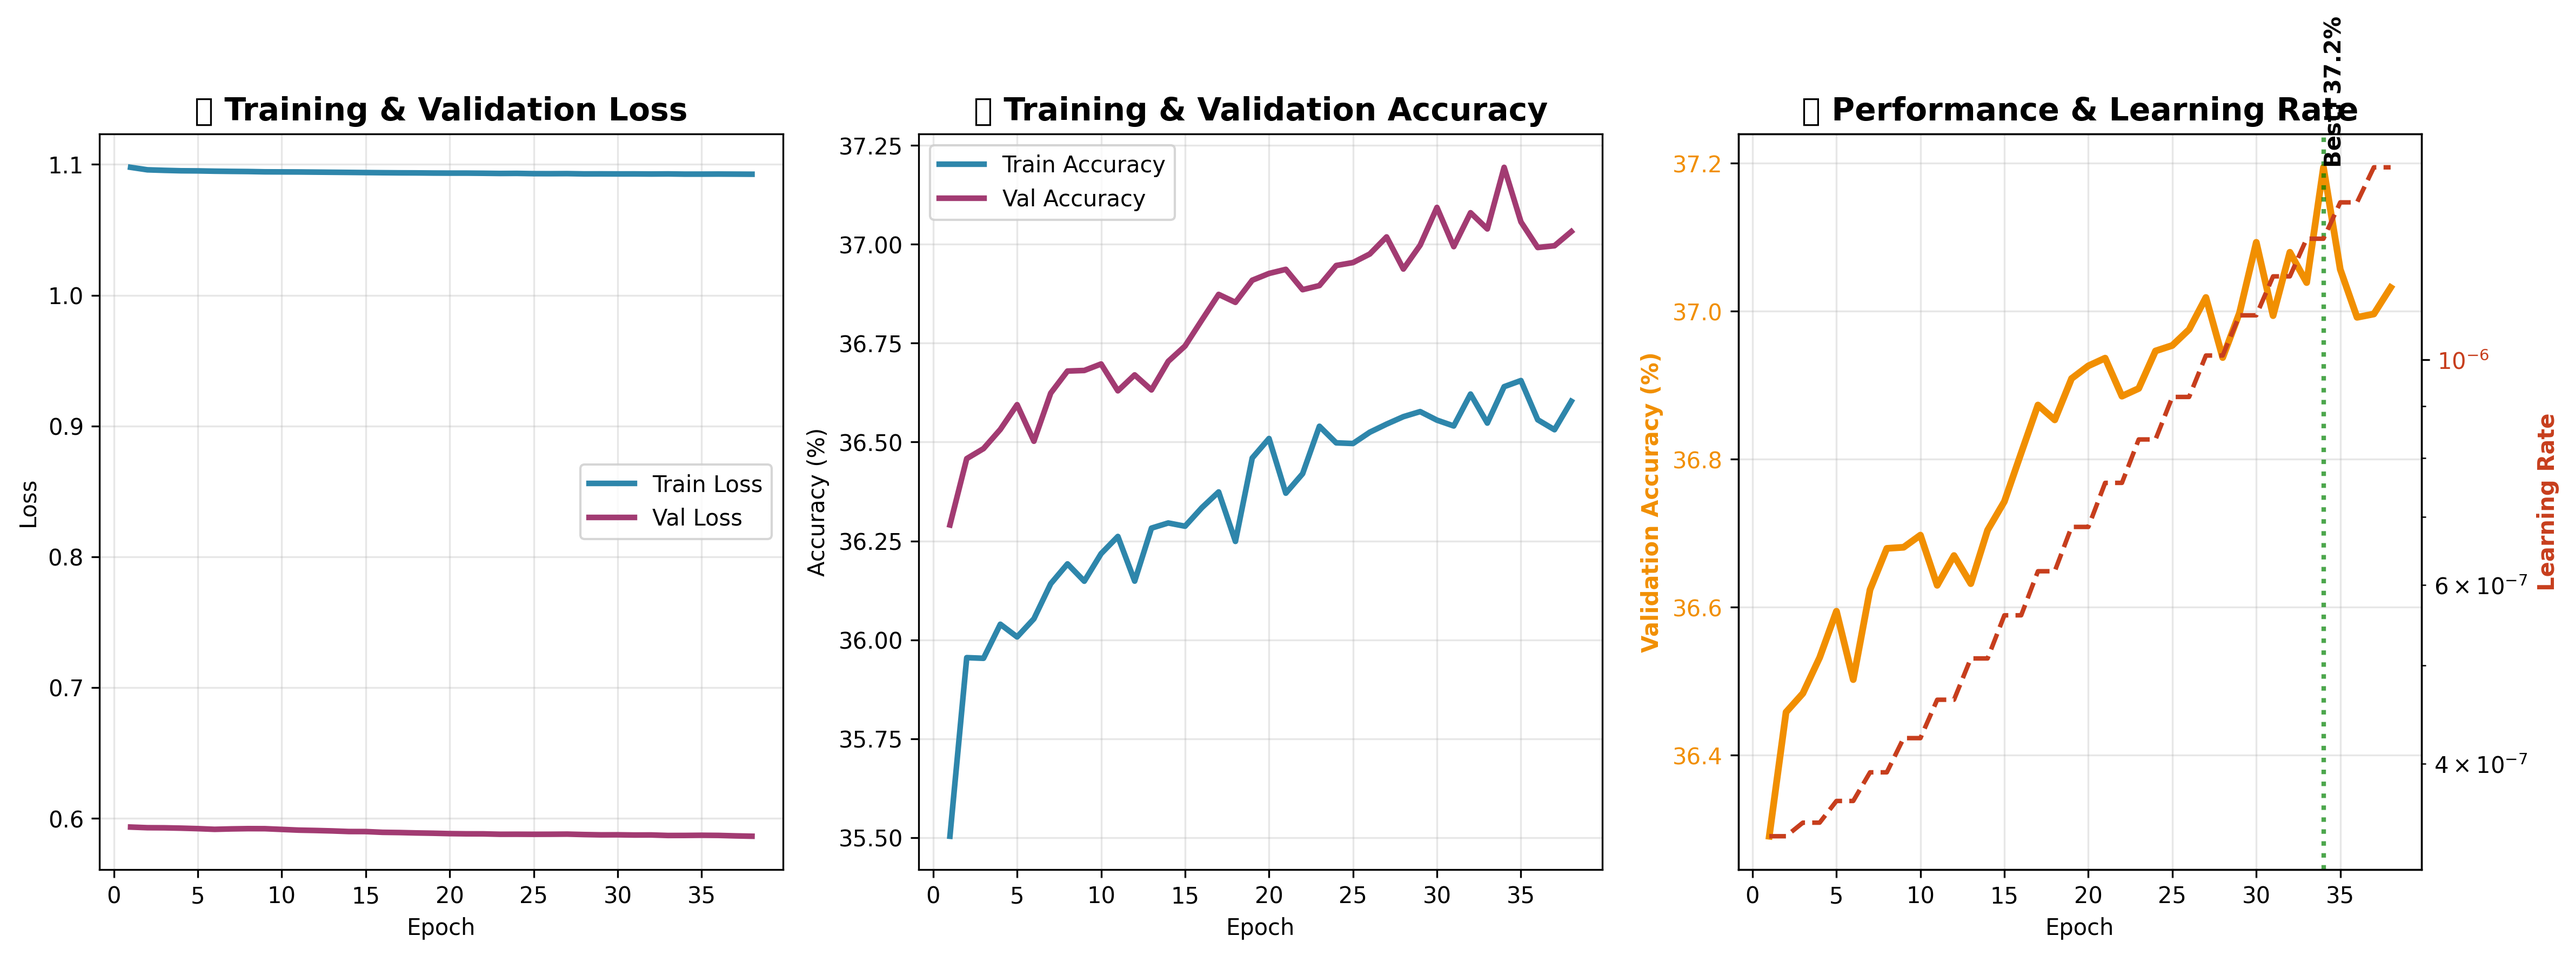
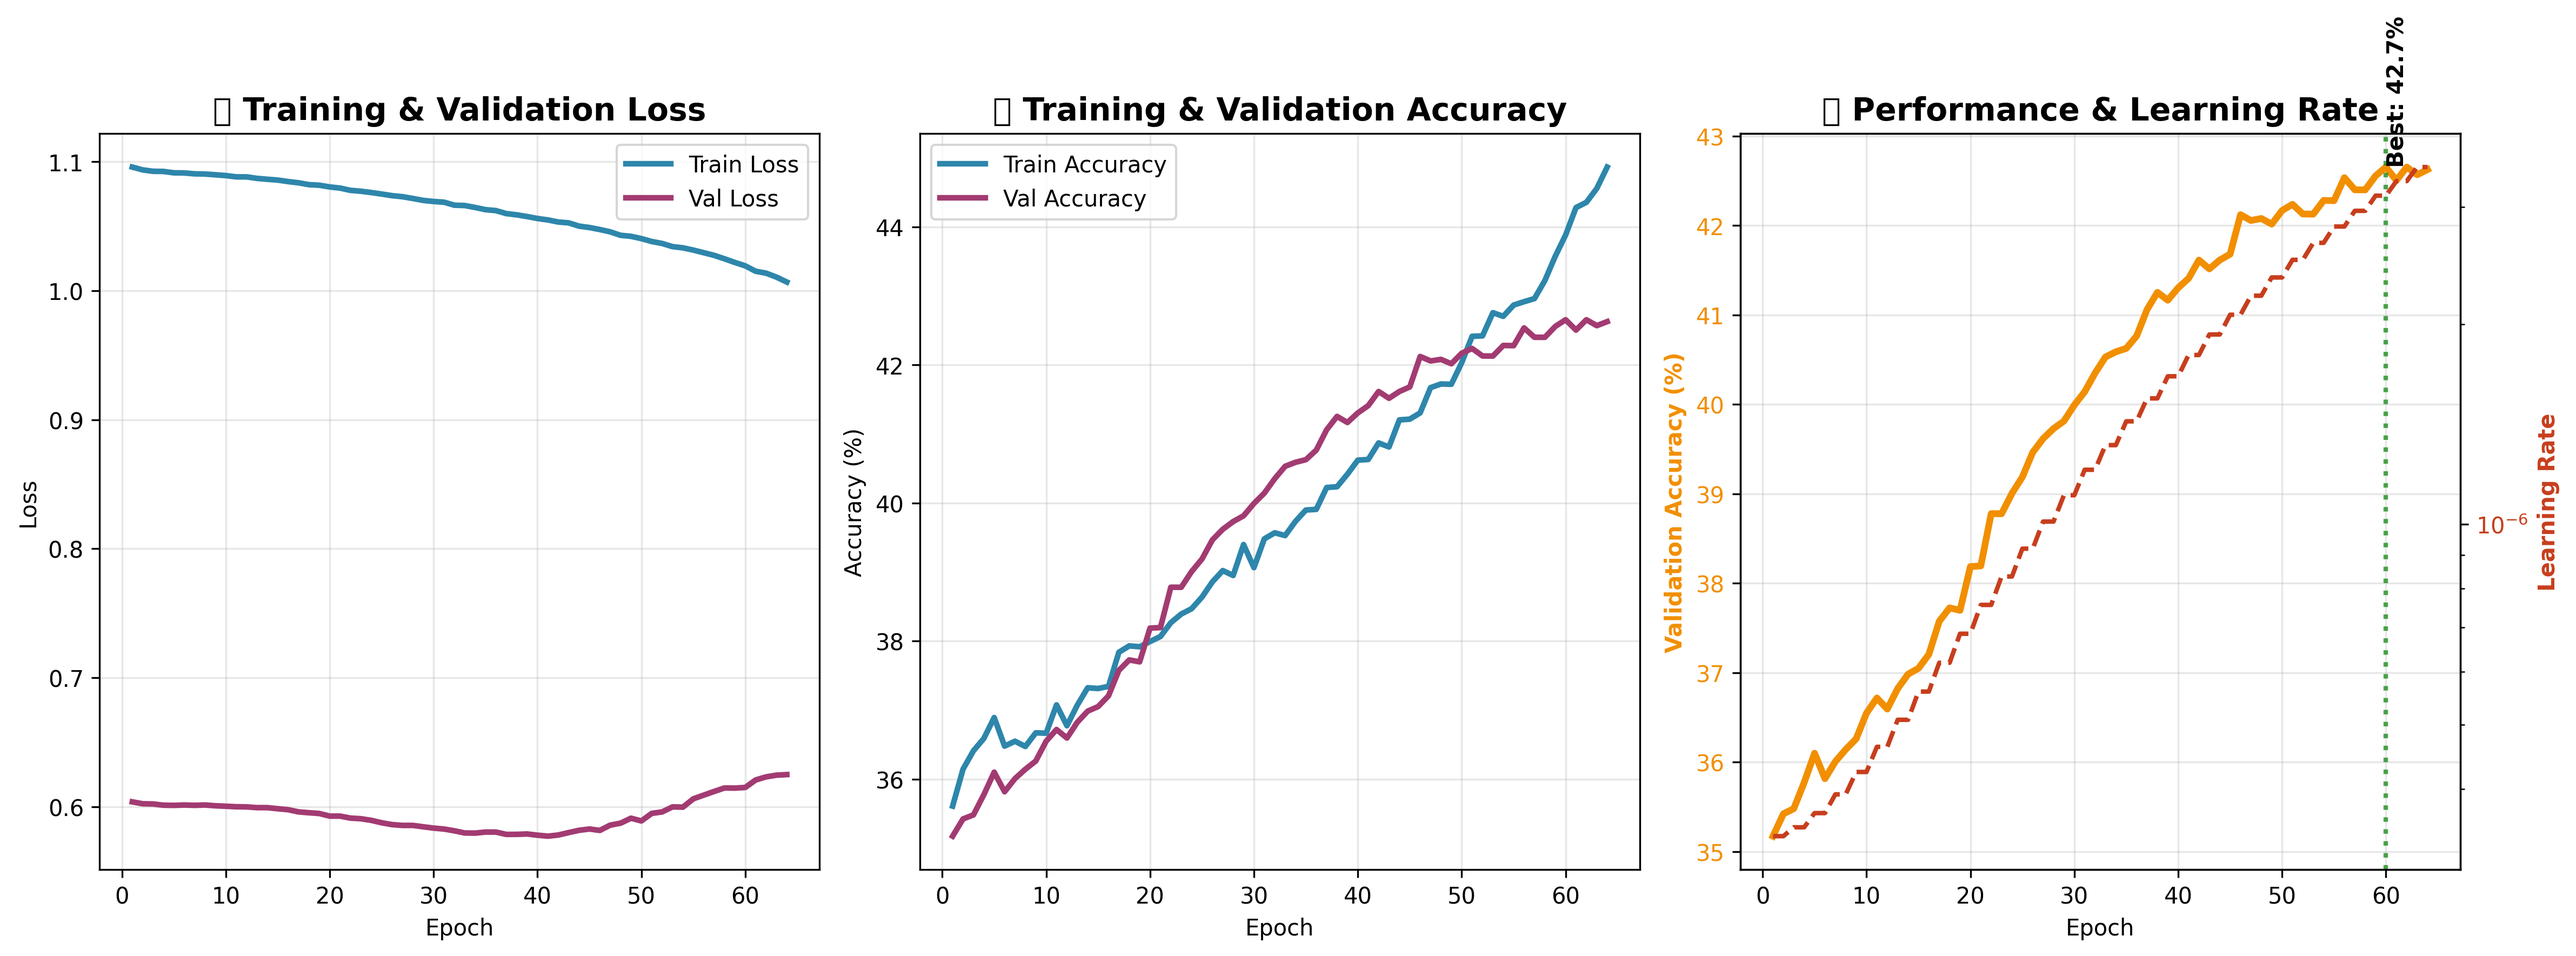
Added Macro F1 score and other metrics to training loop and training curves png

diff --git a/price model/src/training/research_trainer.py b/price model/src/training/research_trainer.py
@@ -199,7 +199,7 @@ class EnhancedCNNResearchTrainer:
         self.best_val_loss = float('inf')
         self.best_val_acc = 0.0
         self.best_epoch = 0
-        self.patience = 5   # REDUCED for faster training → Aggressive LR exploration needs less patience
+        self.patience = 10   # Keep at 10
         self.patience_counter = 0
         
         # 🎯 LEARNING RATE STRATEGY 
@@ -339,6 +339,9 @@ class EnhancedCNNResearchTrainer:
         self.val_losses = []
         self.train_accuracies = []
         self.val_accuracies = []
+        self.val_macro_f1s = []
+        self.val_aurocs = []
+        self.val_precision_at_k = []
         self.learning_rates = []
         
         # Training metadata for comprehensive logging
@@ -712,6 +715,10 @@ class EnhancedCNNResearchTrainer:
                 precision_at_k = (y_true_prob[topk_idx] == 2).mean() if k > 0 else 0.0
             coverage = coverage_counter / len(y_true_prob) if prob_targets else 0.0
             selective_precision = (positive_correct / coverage_counter) if coverage_counter > 0 else 0.0
+            # Save to history arrays
+            self.val_macro_f1s.append(float(macro_f1))
+            self.val_aurocs.append(float(auroc))
+            self.val_precision_at_k.append(float(precision_at_k))
             print(f"  🎯 Macro-F1: {macro_f1:.3f} | AUROC(OVR): {auroc:.3f} | Precision@1%: {precision_at_k:.3f} | Selective P(up|p>{self.select_threshold}): {selective_precision:.3f} @Coverage {coverage:.2%}")
         except Exception as e:
             print(f"⚠  Metric computation issue: {e}")
@@ -835,7 +842,7 @@ class EnhancedCNNResearchTrainer:
                 # Validation
                 val_loss, val_acc = self.validate(val_loader)
                 
-                # Store history
+                # Store history (metrics populated inside validate via prints; recompute concise ones here if needed)
                 self.train_losses.append(train_loss)
                 self.val_losses.append(val_loss)
                 self.train_accuracies.append(train_acc)
@@ -1155,6 +1162,9 @@ class EnhancedCNNResearchTrainer:
             'val_losses': self.val_losses,
             'train_accuracies': self.train_accuracies,
             'val_accuracies': self.val_accuracies,
+            'val_macro_f1s': getattr(self, 'val_macro_f1s', []),
+            'val_aurocs': getattr(self, 'val_aurocs', []),
+            'val_precision_at_k': getattr(self, 'val_precision_at_k', []),
             'learning_rates': self.learning_rates,
             'best_val_loss': self.best_val_loss,
             'best_val_acc': self.best_val_acc,
@@ -1222,6 +1232,8 @@ class EnhancedCNNResearchTrainer:
             plt.subplot(1, 3, 2)
             plt.plot(epochs, self.train_accuracies, label='Train Accuracy', color='#2E86AB', linewidth=2.5)
             plt.plot(epochs, self.val_accuracies, label='Val Accuracy', color='#A23B72', linewidth=2.5)
+            if getattr(self, 'val_macro_f1s', None):
+                plt.plot(epochs[:len(self.val_macro_f1s)], [m*100 for m in self.val_macro_f1s], label='Macro-F1 (%)', color='#27AE60', linestyle='--', linewidth=2)
             plt.title('📈 Training & Validation Accuracy', fontsize=14, fontweight='bold')
             plt.xlabel('Epoch')
             plt.ylabel('Accuracy (%)')
@@ -1427,7 +1439,7 @@ def main():
     )
     
     # Optional: Purged Time-Series CV with embargo (opt-in)
-    use_cv = False  # set True to enable
+    use_cv = True  # set True to enable
     embargo_frac = 0.02
     n_splits = 5
 
